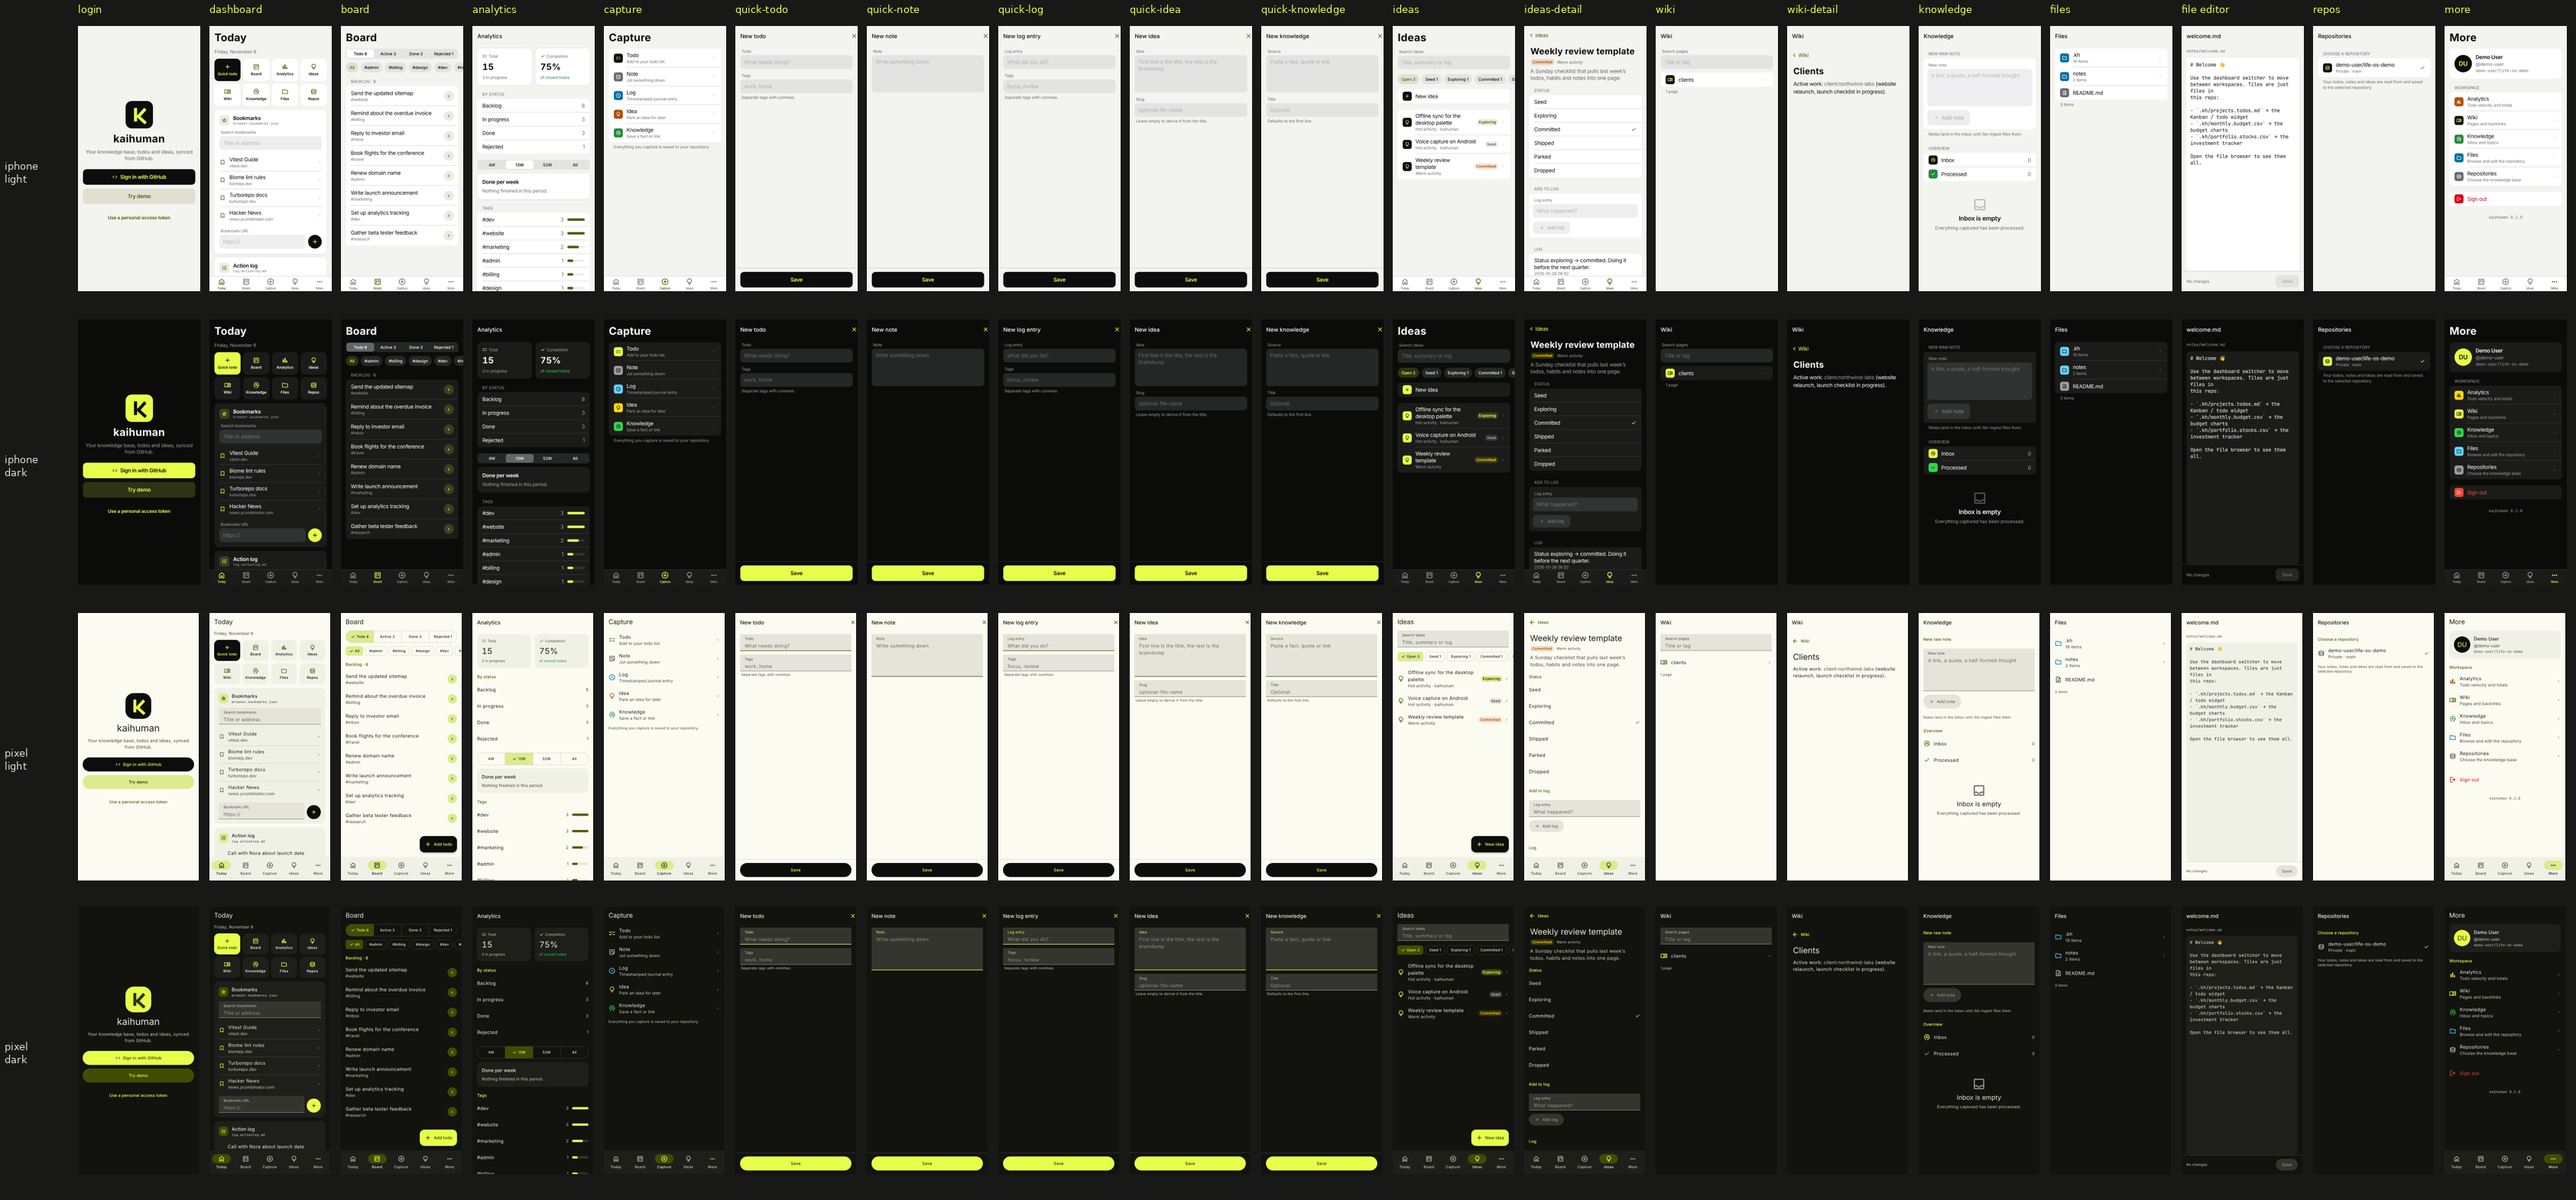
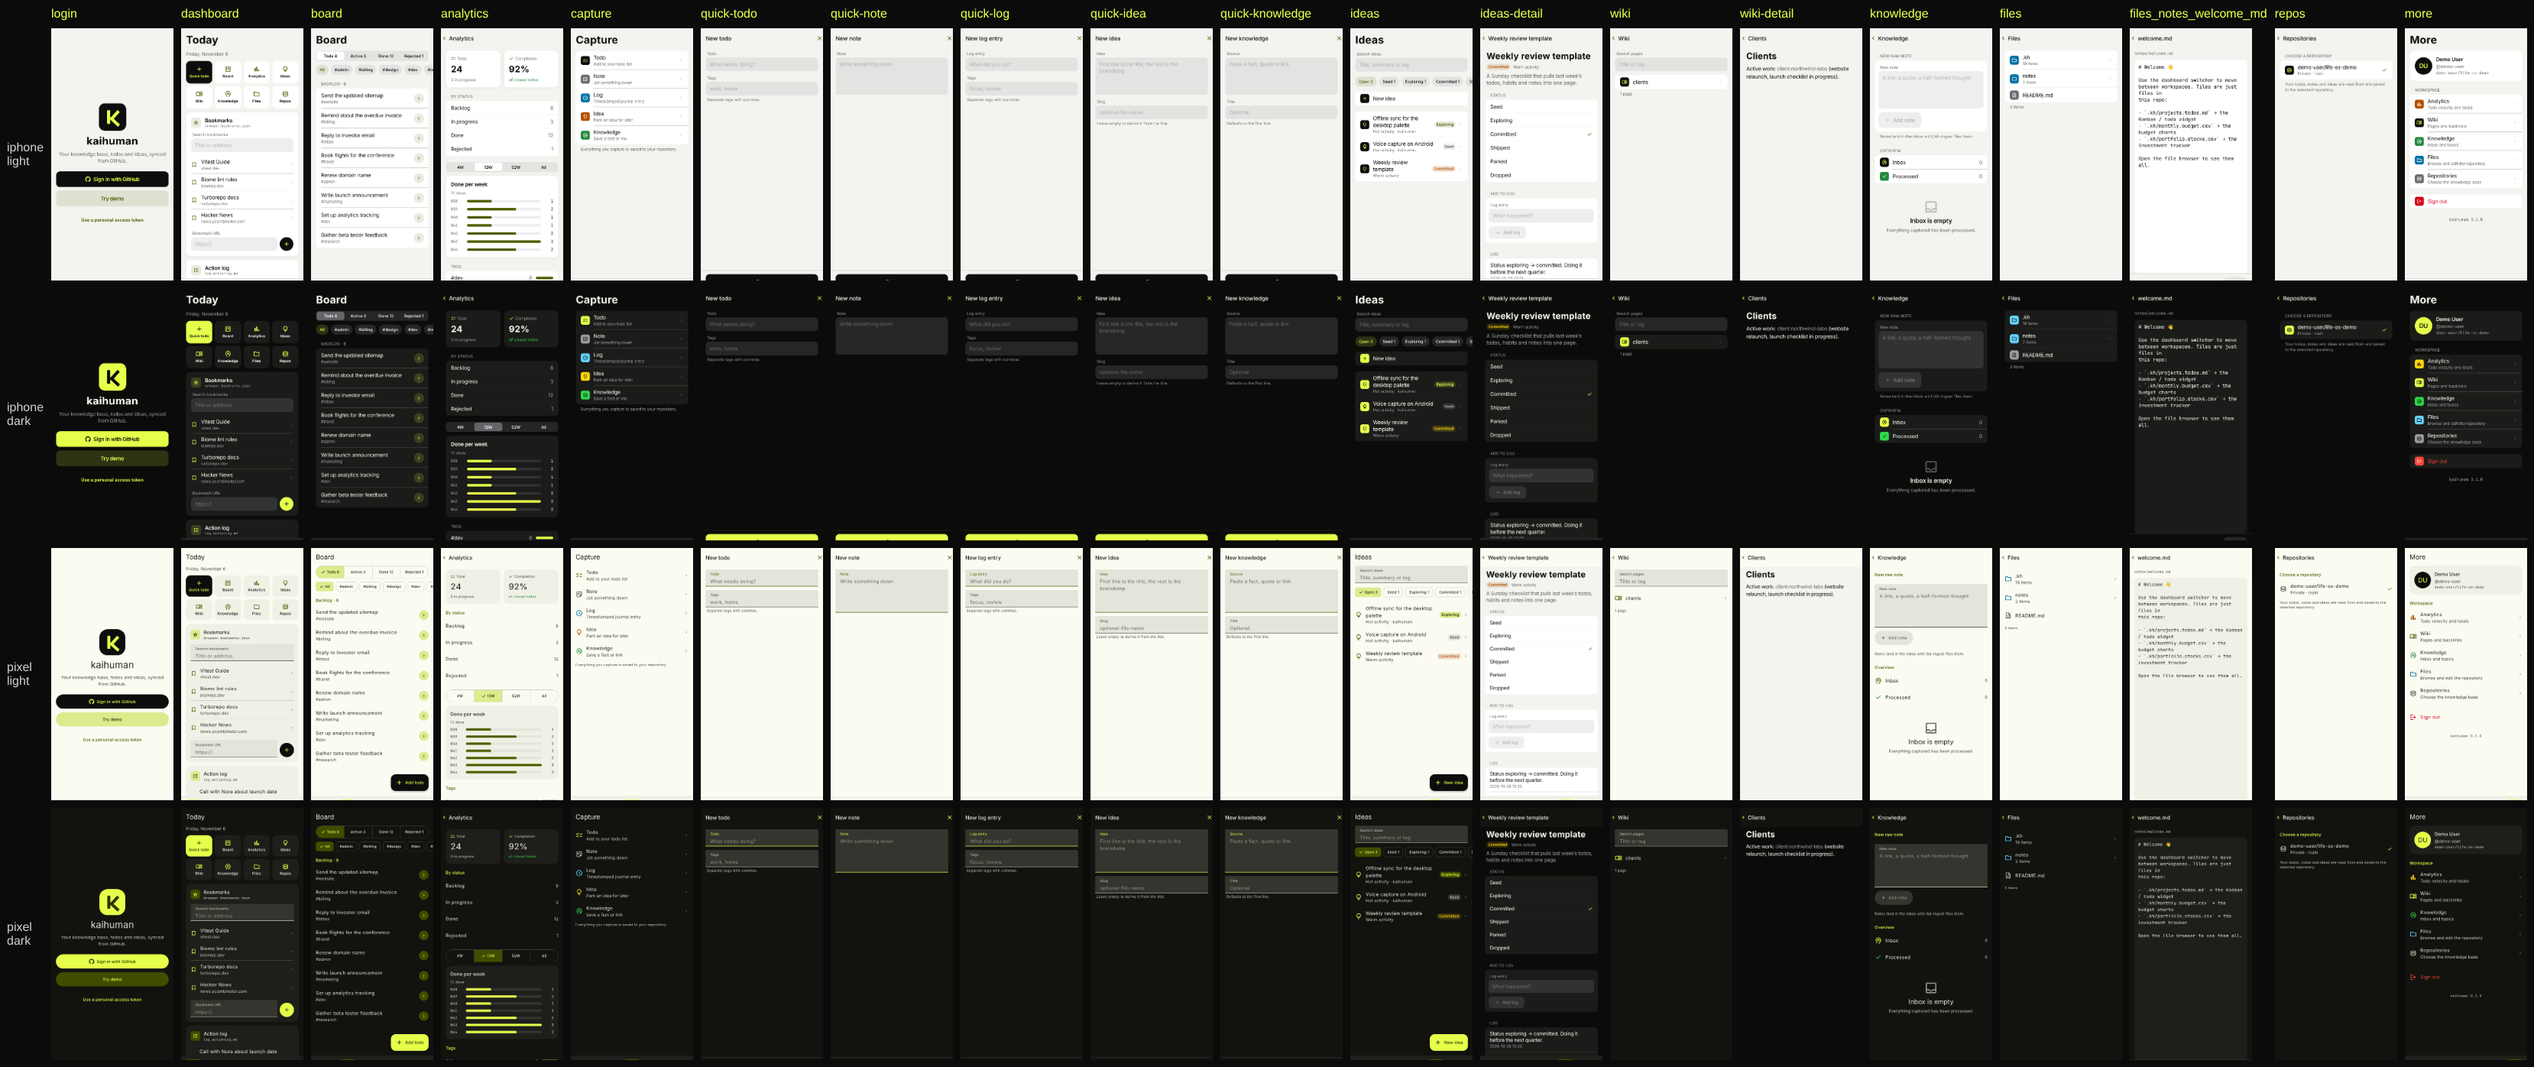
fix(mobile): match wiki header title to the page; update docs and screens
The wiki page header used the lower-case file name; it now uses the same title
as the page body. Regenerates docs/screens.png and records the mobile changes
in progress.md and mobile-design.md.

Claude-Session: https://claude.ai/code/session_01SsFUkd8n3rV3J8YvVHqMHD

diff --git a/apps/mobile/src/views/ideas-wiki-knowledge.test.tsx b/apps/mobile/src/views/ideas-wiki-knowledge.test.tsx
@@ -139,10 +139,17 @@ describe('WikiView reader', () => {
       '.kh/wiki/clients.md': '# Clients\n\n## Active\n- Working with [[Other]]\n',
       '.kh/wiki/other.md': '---\ntitle: Other\n---\nBack.',
     }).files;
+    const onTitle = vi.fn();
     render(
-      <WikiPageView controller={new WikiScreenController({ files })} path=".kh/wiki/clients.md" />,
+      <WikiPageView
+        controller={new WikiScreenController({ files })}
+        path=".kh/wiki/clients.md"
+        onTitle={onTitle}
+      />,
     );
     expect(await screen.findByRole('heading', { name: 'Clients' })).toBeTruthy();
+    // The native header must match the body title, not the lower-case file name.
+    expect(onTitle).toHaveBeenCalledWith('Clients');
     expect(screen.getByRole('heading', { name: 'Active' })).toBeTruthy();
     const body = screen.getByTestId('wiki-page').textContent ?? '';
     expect(body).not.toContain('#');

diff --git a/apps/mobile/src/views/wiki-view.tsx b/apps/mobile/src/views/wiki-view.tsx
@@ -158,7 +158,10 @@ export function WikiPageView({
   }, [load]);
 
   const page = controller.page(path);
-  const pageTitle = page?.title;
+  // The header shows the same title as the page body, which prefers the H1's capitalisation.
+  const pageTitle = page
+    ? withoutTitleHeading(page.title, wikiBlocks(controller.render(path))).title
+    : undefined;
   useEffect(() => {
     if (pageTitle) onTitle?.(pageTitle);
   }, [pageTitle, onTitle]);

diff --git a/doc/mobile-design.md b/doc/mobile-design.md
@@ -255,7 +255,8 @@ Unchanged: `kaihuman://board`, `kaihuman://quick-todo|note|log|idea|knowledge`, 
 
 - Native-stack headers with large titles on tab roots (§7.4).
 - Lists are inset grouped: 16 pt margin, `md` (10) radius, hairline separators inset by `separatorInset`. Settings-style coloured icon tiles lead rows where a row has a category icon.
-- Row actions: current implementation uses a long-press action sheet. Upgrade path: `react-native-gesture-handler` `Swipeable` for swipe actions and a native context menu for long press.
+- Row actions: `ListRow` `swipeActions` reveal with `ReanimatedSwipeable` (react-native-gesture-handler). Full-height solid buttons, first action `accentFill`, destructive red and outermost. Leading edge for the positive action (todo Done, knowledge Archive), trailing for the rest. Haptics: `selection` on open, `success`/`warning` on trigger. Long press keeps the action sheet, and every action is also an `accessibilityAction`. `GestureRoot` wraps the root layout.
+- Detail screens are pushed (idea: `app/(tabs)/ideas/[slug].tsx`; wiki page: `app/wiki/[...page].tsx`) with the native back button and an inline title. Large titles stay on list screens only.
 - Sheets for capture (§7.3). No FAB.
 - Haptics: `selection` on segmented control and tab changes. `impact` light on primary actions. `notification` success or error after save or failure.
 - SF Symbols for all icons. Pressed state is an opacity change, not a colour change.
@@ -271,6 +272,7 @@ Unchanged: `kaihuman://board`, `kaihuman://quick-todo|note|log|idea|knowledge`, 
 - Edge-to-edge: content draws behind the status and navigation bars and is padded with safe-area insets.
 - Bottom navigation bar with pill indicator (`NativeTabs`).
 - Lists are full width without cards. Rows are 56 dp.
+- Swipe actions use tonal buttons (`accentSoft`/`onAccentSoft`, destructive `danger`) revealed behind the row; long press and `accessibilityActions` as on iOS.
 
 ## 9. Light and dark
 
@@ -324,18 +326,20 @@ Legacy `src/views/primitives.tsx` and `src/theme/tokens.ts` were deleted on 2026
   - Pixel 8: 412 × 915
   - Light and dark: emulate `colorScheme` in Playwright
 - Each restyled screen gets one screenshot per platform and scheme (8 images). Check there is no horizontal page scroll at phone width.
+- Pushed screens get a web-only header back control (`webBackOptions` in `src/navigation/web-back-button.tsx`): history back, or `replace` to the parent after a deep link. Native headers are untouched.
+- Swipe gestures are native-only; on web rows fall back to the long-press menu.
 
 ## 13. Screen restyle checklist
 
 Follow-up session. One bullet per screen. Each screen uses only `src/ui/` primitives and `useTheme()`, and passes §10 and §4.3 at 200% text.
 
-- **Login** (`app/login.tsx`, `src/views/login-view.tsx`): no header. Logo, one filled `Button` for GitHub sign-in, one line of helper text.
+- **Login** (`app/login.tsx`, `src/views/login-view.tsx`): no header. Logo, one filled `Button` for GitHub sign-in (official GitHub mark via `react-native-svg`, `GithubMark`, coloured with the label), one line of helper text.
 - **Dashboard** (`app/dashboard.tsx`, `src/views/dashboard-view.tsx`, `tile-view.tsx`): Today tab. Tiles become `Card` and `StatTile`. Numbers in mono.
 - **Board** (`app/board.tsx`, `src/views/kanban-view.tsx`): Board tab. Large title, `SegmentedControl` for status filter, `Chip` for tags, FAB on Android.
 - **Capture** (new `app/(tabs)/(capture)/capture.tsx`): Launcher `Section` with five `ListRow`s (Todo, Note, Log, Idea, Knowledge), each pushing its `quick-*` sheet.
-- **Ideas** (`app/ideas.tsx`, `src/views/ideas-view.tsx`): Ideas tab. `ListRow` list, `EmptyState`, FAB on Android.
+- **Ideas** (`app/(tabs)/ideas/index.tsx`, detail `app/(tabs)/ideas/[slug].tsx`, `src/views/ideas-view.tsx`): Ideas tab; detail is pushed. `ListRow` list, `EmptyState`, FAB on Android.
 - **Analytics** (`app/analytics.tsx`, `src/views/todo-analytics-view.tsx`): Pushed detail. `StatTile` row for velocity and totals, mono numbers, no coloured chart without a label.
-- **Wiki** (`app/wiki.tsx`, `src/views/wiki-view.tsx`): Pushed detail. `[[wikilinks]]` styled with `accent`, backlinks in a `Section`.
+- **Wiki** (`app/wiki/index.tsx`, page `app/wiki/[...page].tsx`, `src/views/wiki-view.tsx`): Pushed list; each page is pushed again. `[[wikilinks]]` styled with `accent`, backlinks in a `Section`.
 - **Knowledge** (`app/knowledge.tsx`, `src/views/knowledge-view.tsx`): Pushed detail. Inbox as `ListRow`s with `Badge` counts.
 - **Files** (`app/files/index.tsx`): Pushed detail. Tree as `ListRow`s with `folder` and `files` icons, paths in mono.
 - **File editor** (`app/files/[...path].tsx`, `src/views/file-editor-view.tsx`): Pushed detail. Monospace editor body, `Button` for save, error haptic on failed save. `.enc` passphrase prompt as a `TextField` in a sheet.

diff --git a/doc/progress.md b/doc/progress.md
@@ -1,5 +1,15 @@
 # Progress
 
+## 2026-11-06 — Mobile: swipe actions, pushed detail screens, GitHub mark, demo done dates
+
+- Added `react-native-gesture-handler`, `react-native-reanimated`, `react-native-worklets` and `react-native-svg` at the SDK 58 versions.
+- `ListRow` reveals `swipeActions` with `ReanimatedSwipeable` (iOS full-height buttons, Android tonal, destructive outermost, `side: 'leading' | 'trailing'`), with haptics. Long press keeps the action sheet; each action is also an `accessibilityAction`. `GestureRoot` wraps the root layout. Todos: Done, Start/Backlog/Reject, Delete (`KanbanBoardController.remove`). Ideas: status changes, Delete (`IdeasScreenController.remove`). Knowledge inbox: Archive, Delete.
+- Idea detail (`app/(tabs)/ideas/[slug].tsx`) and wiki page (`app/wiki/[...page].tsx`; `wiki.tsx` moved to `wiki/index.tsx`) are pushed stack screens with the native header and back button; the header title matches the page title.
+- Web preview: pushed screens get a back control (`webBackOptions`); native is unchanged.
+- The sign-in button shows the official GitHub mark (`GithubMark`, coloured with the label via the new `Button` `leading` prop).
+- Demo seed: done todos carry `::updated::` dates over the last ~7 weeks, so the weekly-done bars show data.
+- Regenerated `apps/mobile/docs/screens.png`.
+
 ## 2026-11-06 — Mobile: iOS widget concepts
 
 - New `doc/mobile-widgets.md`: ten ranked iOS widget concepts (families, interactions, data, effort), a v1 set (Next up, Quick capture + Control Center controls, Weekly done ring, Inbox, App Shortcuts) and a v2 set, refresh/offline/Lock Screen privacy rules, and the additive `widget-sync` snapshot changes (`schemaVersion: 2`, stats, milestones, knowledge inbox, local time zone).
